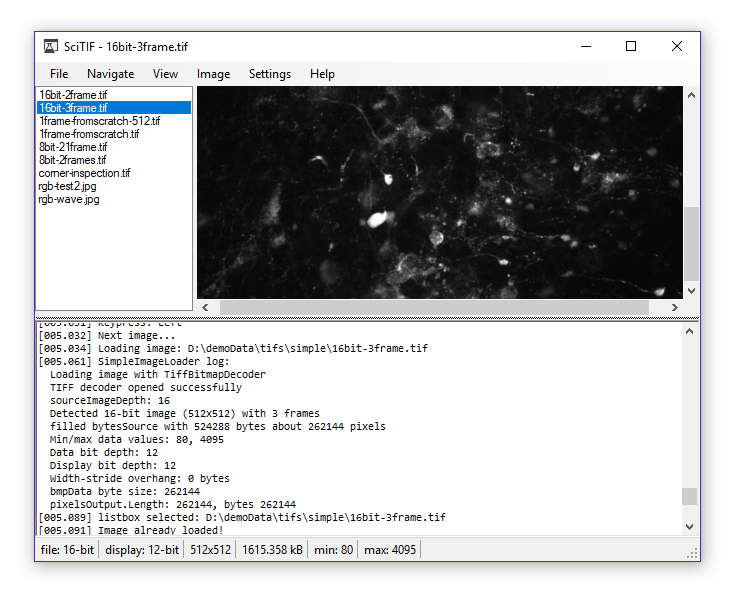
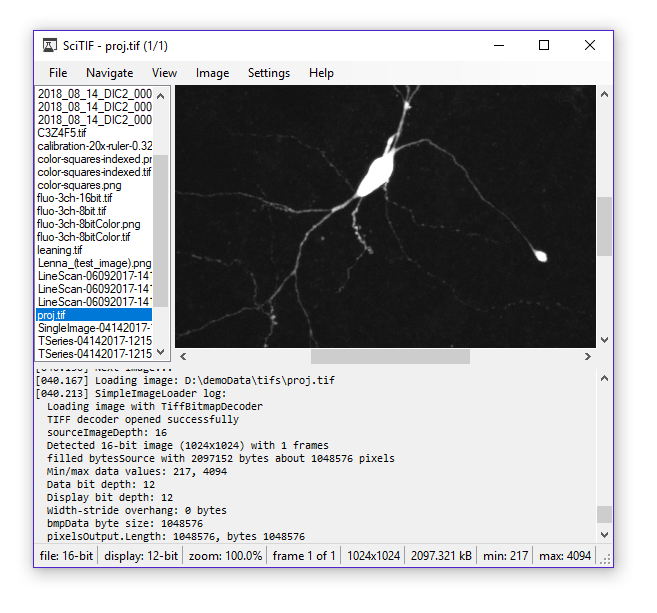
improve GUI display of image properties

diff --git a/src/SciTIFapp/FormMain.Designer.cs b/src/SciTIFapp/FormMain.Designer.cs
@@ -55,11 +55,13 @@
             this.rtbConsole = new System.Windows.Forms.RichTextBox();
             this.statusStrip1 = new System.Windows.Forms.StatusStrip();
             this.lblDepthFile = new System.Windows.Forms.ToolStripStatusLabel();
-            this.lblResolution = new System.Windows.Forms.ToolStripStatusLabel();
             this.lblDepthData = new System.Windows.Forms.ToolStripStatusLabel();
-            this.lblLimitMin = new System.Windows.Forms.ToolStripStatusLabel();
+            this.lblResolution = new System.Windows.Forms.ToolStripStatusLabel();
             this.lblSizeKb = new System.Windows.Forms.ToolStripStatusLabel();
+            this.lblLimitMin = new System.Windows.Forms.ToolStripStatusLabel();
             this.lblLimitMax = new System.Windows.Forms.ToolStripStatusLabel();
+            this.lblFrame = new System.Windows.Forms.ToolStripStatusLabel();
+            this.lblZoom = new System.Windows.Forms.ToolStripStatusLabel();
             this.menuStrip1.SuspendLayout();
             ((System.ComponentModel.ISupportInitialize)(this.pbImage)).BeginInit();
             ((System.ComponentModel.ISupportInitialize)(this.splitContainer1)).BeginInit();
@@ -85,7 +87,7 @@
             this.helpToolStripMenuItem});
             this.menuStrip1.Location = new System.Drawing.Point(0, 0);
             this.menuStrip1.Name = "menuStrip1";
-            this.menuStrip1.Size = new System.Drawing.Size(648, 24);
+            this.menuStrip1.Size = new System.Drawing.Size(624, 24);
             this.menuStrip1.TabIndex = 0;
             this.menuStrip1.Text = "menuStrip1";
             // 
@@ -323,7 +325,7 @@
             this.pbImage.Dock = System.Windows.Forms.DockStyle.Fill;
             this.pbImage.Location = new System.Drawing.Point(0, 0);
             this.pbImage.Name = "pbImage";
-            this.pbImage.Size = new System.Drawing.Size(490, 183);
+            this.pbImage.Size = new System.Drawing.Size(472, 241);
             this.pbImage.SizeMode = System.Windows.Forms.PictureBoxSizeMode.Zoom;
             this.pbImage.TabIndex = 1;
             this.pbImage.TabStop = false;
@@ -336,7 +338,7 @@
             this.lbFiles.FormattingEnabled = true;
             this.lbFiles.Location = new System.Drawing.Point(0, 0);
             this.lbFiles.Name = "lbFiles";
-            this.lbFiles.Size = new System.Drawing.Size(154, 183);
+            this.lbFiles.Size = new System.Drawing.Size(148, 241);
             this.lbFiles.TabIndex = 2;
             this.lbFiles.SelectedIndexChanged += new System.EventHandler(this.lbFiles_SelectedIndexChanged);
             // 
@@ -353,8 +355,8 @@
             // splitContainer1.Panel2
             // 
             this.splitContainer1.Panel2.Controls.Add(this.panelImage);
-            this.splitContainer1.Size = new System.Drawing.Size(648, 183);
-            this.splitContainer1.SplitterDistance = 154;
+            this.splitContainer1.Size = new System.Drawing.Size(624, 241);
+            this.splitContainer1.SplitterDistance = 148;
             this.splitContainer1.TabIndex = 3;
             this.splitContainer1.SplitterMoved += new System.Windows.Forms.SplitterEventHandler(this.splitContainer1_SplitterMoved);
             // 
@@ -364,7 +366,7 @@
             this.panelImage.Dock = System.Windows.Forms.DockStyle.Fill;
             this.panelImage.Location = new System.Drawing.Point(0, 0);
             this.panelImage.Name = "panelImage";
-            this.panelImage.Size = new System.Drawing.Size(490, 183);
+            this.panelImage.Size = new System.Drawing.Size(472, 241);
             this.panelImage.TabIndex = 2;
             // 
             // splitContainer2
@@ -381,17 +383,20 @@
             // splitContainer2.Panel2
             // 
             this.splitContainer2.Panel2.Controls.Add(this.rtbConsole);
-            this.splitContainer2.Size = new System.Drawing.Size(648, 406);
-            this.splitContainer2.SplitterDistance = 183;
+            this.splitContainer2.Size = new System.Drawing.Size(624, 393);
+            this.splitContainer2.SplitterDistance = 241;
             this.splitContainer2.TabIndex = 4;
             // 
             // rtbConsole
             // 
+            this.rtbConsole.BackColor = System.Drawing.SystemColors.Control;
+            this.rtbConsole.BorderStyle = System.Windows.Forms.BorderStyle.None;
             this.rtbConsole.Dock = System.Windows.Forms.DockStyle.Fill;
             this.rtbConsole.Font = new System.Drawing.Font("Consolas", 8.25F, System.Drawing.FontStyle.Regular, System.Drawing.GraphicsUnit.Point, ((byte)(0)));
+            this.rtbConsole.ForeColor = System.Drawing.Color.Black;
             this.rtbConsole.Location = new System.Drawing.Point(0, 0);
             this.rtbConsole.Name = "rtbConsole";
-            this.rtbConsole.Size = new System.Drawing.Size(648, 219);
+            this.rtbConsole.Size = new System.Drawing.Size(624, 148);
             this.rtbConsole.TabIndex = 0;
             this.rtbConsole.Text = "developer console";
             // 
@@ -400,13 +405,15 @@
             this.statusStrip1.Items.AddRange(new System.Windows.Forms.ToolStripItem[] {
             this.lblDepthFile,
             this.lblDepthData,
+            this.lblZoom,
+            this.lblFrame,
             this.lblResolution,
             this.lblSizeKb,
             this.lblLimitMin,
             this.lblLimitMax});
-            this.statusStrip1.Location = new System.Drawing.Point(0, 430);
+            this.statusStrip1.Location = new System.Drawing.Point(0, 417);
             this.statusStrip1.Name = "statusStrip1";
-            this.statusStrip1.Size = new System.Drawing.Size(648, 24);
+            this.statusStrip1.Size = new System.Drawing.Size(624, 24);
             this.statusStrip1.TabIndex = 1;
             this.statusStrip1.Text = "statusStrip1";
             // 
@@ -417,13 +424,6 @@
             this.lblDepthFile.Size = new System.Drawing.Size(55, 19);
             this.lblDepthFile.Text = "8-bit file";
             // 
-            // lblResolution
-            // 
-            this.lblResolution.BorderSides = System.Windows.Forms.ToolStripStatusLabelBorderSides.Right;
-            this.lblResolution.Name = "lblResolution";
-            this.lblResolution.Size = new System.Drawing.Size(58, 19);
-            this.lblResolution.Text = "1024x768";
-            // 
             // lblDepthData
             // 
             this.lblDepthData.BorderSides = System.Windows.Forms.ToolStripStatusLabelBorderSides.Right;
@@ -431,12 +431,12 @@
             this.lblDepthData.Size = new System.Drawing.Size(68, 19);
             this.lblDepthData.Text = "12-bit data";
             // 
-            // lblLimitMin
+            // lblResolution
             // 
-            this.lblLimitMin.BorderSides = System.Windows.Forms.ToolStripStatusLabelBorderSides.Right;
-            this.lblLimitMin.Name = "lblLimitMin";
-            this.lblLimitMin.Size = new System.Drawing.Size(50, 19);
-            this.lblLimitMin.Text = "Min: 13";
+            this.lblResolution.BorderSides = System.Windows.Forms.ToolStripStatusLabelBorderSides.Right;
+            this.lblResolution.Name = "lblResolution";
+            this.lblResolution.Size = new System.Drawing.Size(58, 19);
+            this.lblResolution.Text = "1024x768";
             // 
             // lblSizeKb
             // 
@@ -445,6 +445,13 @@
             this.lblSizeKb.Size = new System.Drawing.Size(60, 19);
             this.lblSizeKb.Text = "132.25 kB";
             // 
+            // lblLimitMin
+            // 
+            this.lblLimitMin.BorderSides = System.Windows.Forms.ToolStripStatusLabelBorderSides.Right;
+            this.lblLimitMin.Name = "lblLimitMin";
+            this.lblLimitMin.Size = new System.Drawing.Size(50, 19);
+            this.lblLimitMin.Text = "Min: 13";
+            // 
             // lblLimitMax
             // 
             this.lblLimitMax.BorderSides = System.Windows.Forms.ToolStripStatusLabelBorderSides.Right;
@@ -452,11 +459,25 @@
             this.lblLimitMax.Size = new System.Drawing.Size(57, 19);
             this.lblLimitMax.Text = "Max: 212";
             // 
+            // lblFrame
+            // 
+            this.lblFrame.BorderSides = System.Windows.Forms.ToolStripStatusLabelBorderSides.Right;
+            this.lblFrame.Name = "lblFrame";
+            this.lblFrame.Size = new System.Drawing.Size(80, 19);
+            this.lblFrame.Text = "frame 1 of 12";
+            // 
+            // lblZoom
+            // 
+            this.lblZoom.BorderSides = System.Windows.Forms.ToolStripStatusLabelBorderSides.Right;
+            this.lblZoom.Name = "lblZoom";
+            this.lblZoom.Size = new System.Drawing.Size(39, 19);
+            this.lblZoom.Text = "100%";
+            // 
             // FormMain
             // 
             this.AutoScaleDimensions = new System.Drawing.SizeF(6F, 13F);
             this.AutoScaleMode = System.Windows.Forms.AutoScaleMode.Font;
-            this.ClientSize = new System.Drawing.Size(648, 454);
+            this.ClientSize = new System.Drawing.Size(624, 441);
             this.Controls.Add(this.splitContainer2);
             this.Controls.Add(this.menuStrip1);
             this.Controls.Add(this.statusStrip1);
@@ -466,6 +487,7 @@
             this.Name = "FormMain";
             this.Text = "SciTIF";
             this.Load += new System.EventHandler(this.FormMain_Load);
+            this.SizeChanged += new System.EventHandler(this.FormMain_SizeChanged);
             this.KeyDown += new System.Windows.Forms.KeyEventHandler(this.FormMain_KeyDown);
             this.menuStrip1.ResumeLayout(false);
             this.menuStrip1.PerformLayout();
@@ -532,6 +554,8 @@
         private System.Windows.Forms.ToolStripStatusLabel lblSizeKb;
         private System.Windows.Forms.ToolStripStatusLabel lblLimitMin;
         private System.Windows.Forms.ToolStripStatusLabel lblLimitMax;
+        private System.Windows.Forms.ToolStripStatusLabel lblFrame;
+        private System.Windows.Forms.ToolStripStatusLabel lblZoom;
     }
 }
 

diff --git a/src/SciTIFapp/FormMain.cs b/src/SciTIFapp/FormMain.cs
@@ -84,7 +84,7 @@ namespace SciTIFapp
             rtbConsole.SelectionStart = rtbConsole.Text.Length;
 
             // scroll to the caret
-            rtbConsole.ScrollToCaret(); 
+            rtbConsole.ScrollToCaret();
         }
 
         public void ScanFolder(string folderPath)
@@ -109,16 +109,14 @@ namespace SciTIFapp
                 lbFiles.Items.Add(System.IO.Path.GetFileName(filePath));
         }
 
-        public void SetImage(string imageFilePath)
+        public void SetImage(string imageFilePath = "")
         {
-
+            // allow function to be called without argument to update GUI after resize
+            if (imageFilePath == "")
+                imageFilePath = this.imageFilePath;
 
             // prevent reloading the same image
-            if (this.imageFilePath == imageFilePath)
-            {
-                Log($"Image already loaded!");
-            }
-            else
+            if (this.imageFilePath != imageFilePath)
             {
                 // load the new image data
                 Log($"Loading image: {imageFilePath}");
@@ -135,7 +133,7 @@ namespace SciTIFapp
                 // adjust parts of the GUI which depend on the image info
                 pbImage.Width = img.bmpPreview.Width;
                 pbImage.Height = img.bmpPreview.Height;
-                this.Text = $"SciTIF - {System.IO.Path.GetFileName(imageFilePath)}";
+                this.Text = $"SciTIF - {System.IO.Path.GetFileName(imageFilePath)} ({img.frame + 1}/{img.frameCount})";
                 lblDepthFile.Text = $"file: {img.depthSource}-bit";
                 lblDepthData.Text = $"display: {img.depthDisplay}-bit";
                 double fileSizeKb = new System.IO.FileInfo(imageFilePath).Length / 1e3;
@@ -143,6 +141,7 @@ namespace SciTIFapp
                 lblResolution.Text = $"{img.bmpPreview.Width}x{img.bmpPreview.Height}";
                 lblLimitMin.Text = $"min: {img.valueMin}";
                 lblLimitMax.Text = $"max: {img.valueMax}";
+                lblFrame.Text = $"frame {img.frame + 1} of {img.frameCount}";
             }
 
             // set picturebox size based on whether or not it should be stretched
@@ -155,7 +154,10 @@ namespace SciTIFapp
             {
                 pbImage.Dock = DockStyle.None;
                 panelImage.AutoScroll = true;
+                lblZoom.Text = "zoom: 1:1";
             }
+            double zoomFrac = (double)pbImage.Width / pbImage.Image.Width;
+            lblZoom.Text = string.Format("zoom: {0:0.0}%", zoomFrac * 100);
 
             // if this image is in a different folder, scan the new folder to aid navigation
             string thisImageFolder = System.IO.Path.GetDirectoryName(imageFilePath);
@@ -369,6 +371,11 @@ namespace SciTIFapp
         private void toggleDeveloperConsole()
         {
             splitContainer2.Panel2Collapsed = !splitContainer2.Panel2Collapsed;
+        }
+
+        private void FormMain_SizeChanged(object sender, EventArgs e)
+        {
+            SetImage();
         }
     }
 }

diff --git a/src/SciTIFapp/SimpleImageLoader.cs b/src/SciTIFapp/SimpleImageLoader.cs
@@ -23,6 +23,8 @@ namespace SciTIFapp
         public int depthDisplay;
         public int valueMin;
         public int valueMax;
+        public int frameCount;
+        public int frame;
 
         public SimpleImageLoader(string path)
         {
@@ -31,12 +33,6 @@ namespace SciTIFapp
                 bmpPreview = LoadImageTiff(path);
             else
                 bmpPreview = LoadImageNonTiff(path);
-        }
-
-        private Bitmap LoadImageNonTiff(string path)
-        {
-            Log("Loading image with Bitmap");
-            return new Bitmap(path);
         }
 
         private void Log(string message)
@@ -176,6 +172,24 @@ namespace SciTIFapp
             this.depthDisplay = dataDepth;
             this.valueMin = pixelValueMin;
             this.valueMax = pixelValueMax;
+            this.frameCount = imageFrames;
+            this.frame = frameNumber;
+
+            return bmp;
+        }
+
+        private Bitmap LoadImageNonTiff(string path)
+        {
+            Log("Loading image with Bitmap");
+            Bitmap bmp = new Bitmap(path);
+
+            // update class-level variables with image information
+            this.depthSource = 8;
+            this.depthDisplay = 8;
+            this.valueMin = 0; // TODO: function to get limits of BMP
+            this.valueMax = 255; // TODO: function to get limits of BMP
+            this.frameCount = 1;
+            this.frame = 1;
 
             return bmp;
         }
